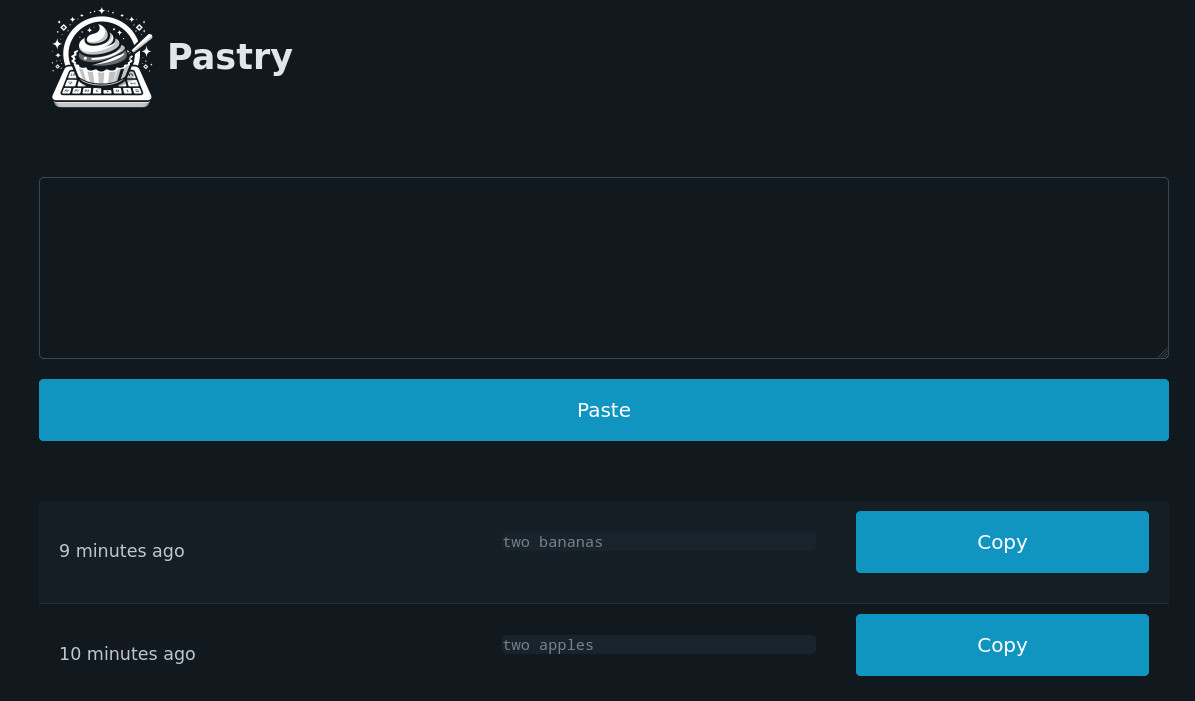
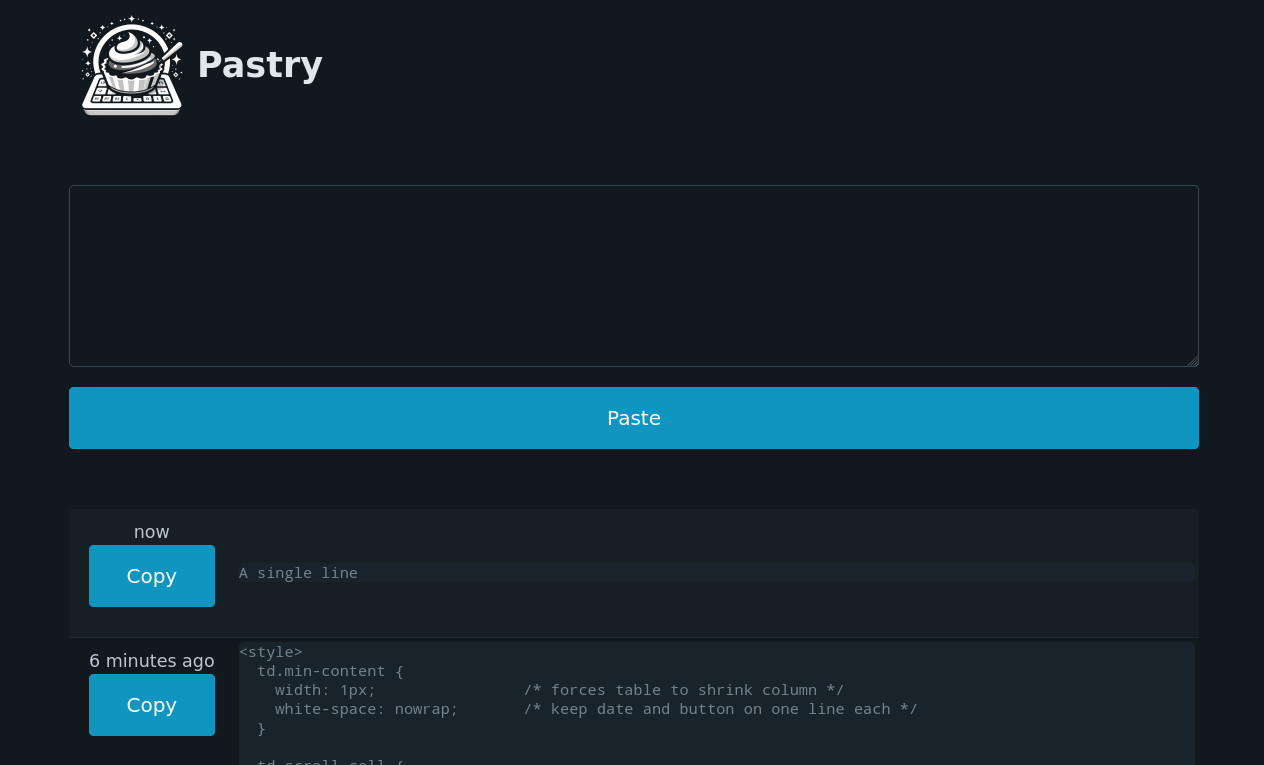
Move copy button to the left and add some styling

diff --git a/tmpl/index.html b/tmpl/index.html
@@ -9,15 +9,20 @@
 
     <script>
       function copy(tdname) {
-        const pre = document.querySelector(`#${tdname} pre`);
-        if (pre) {
-          navigator.clipboard.writeText(pre.textContent.trim())
-            .then(() => console.log("Copied!"))
-            .catch(err => console.error("Copy failed:", err));
-        }
+	  const pre = document.querySelector(`#${tdname} pre`);
+	  const btn = event.target; // the button that was clicked
+	  if (pre) {
+	      navigator.clipboard.writeText(pre.textContent.trim())
+		  .then(() => {
+		      btn.textContent = "Copied!";
+		      setTimeout(() => btn.textContent = "Copy", 1200);
+		  })
+		  .catch(err => console.error("Copy failed:", err));
+	  }
       }
     </script>
   </head>
+
   <body>
     <main class="container">
       <br/>
@@ -28,12 +33,44 @@
       </form>
       <br/>
 
-      <table role="grid">{{range $y, $x := . }}
-        <tr>
-          <td style="white-space:nowrap;">{{ $x.DateTime }}</td>
-          <td id="text{{$y}}"><pre>{{ $x.Text }}</pre></td>
-          <td><button type="button" onclick="copy('text{{$y}}')">Copy</button></td>
-        </tr>{{end}}
+      <style>
+	td.min-content {
+	    width: 1px;                /* forces table to shrink column */
+	    white-space: nowrap;       /* keep date and button on one line each */
+	    text-align: center;
+	    vertical-align: top;       /* keeps date+button at top */
+	}
+
+	td.scroll-cell {
+	    max-width: calc(100vw - 120px); /* leave space for the left column */
+	    overflow-x: auto;
+	    padding: 0.2rem;
+	}
+
+	td.scroll-cell pre {
+	    margin: 0;
+	    white-space: pre;          /* no wrapping inside <pre> */
+	}
+
+	td.min-content {
+	    width: 1px;
+	    white-space: nowrap;
+
+	}
+      </style>
+
+      <table role="grid">
+	{{range $y, $x := . }}
+	<tr>
+	  <td class="min-content">
+	    {{ $x.DateTime }}<br>
+	    <button type="button" aria-label="Copy text" onclick="copy('text{{$y}}')">Copy</button>
+	  </td>
+	  <td class="scroll-cell" id="text{{$y}}">
+	    <pre>{{ $x.Text }}</pre>
+	  </td>
+	</tr>
+	{{end}}
       </table>
     </main>
   </body>
